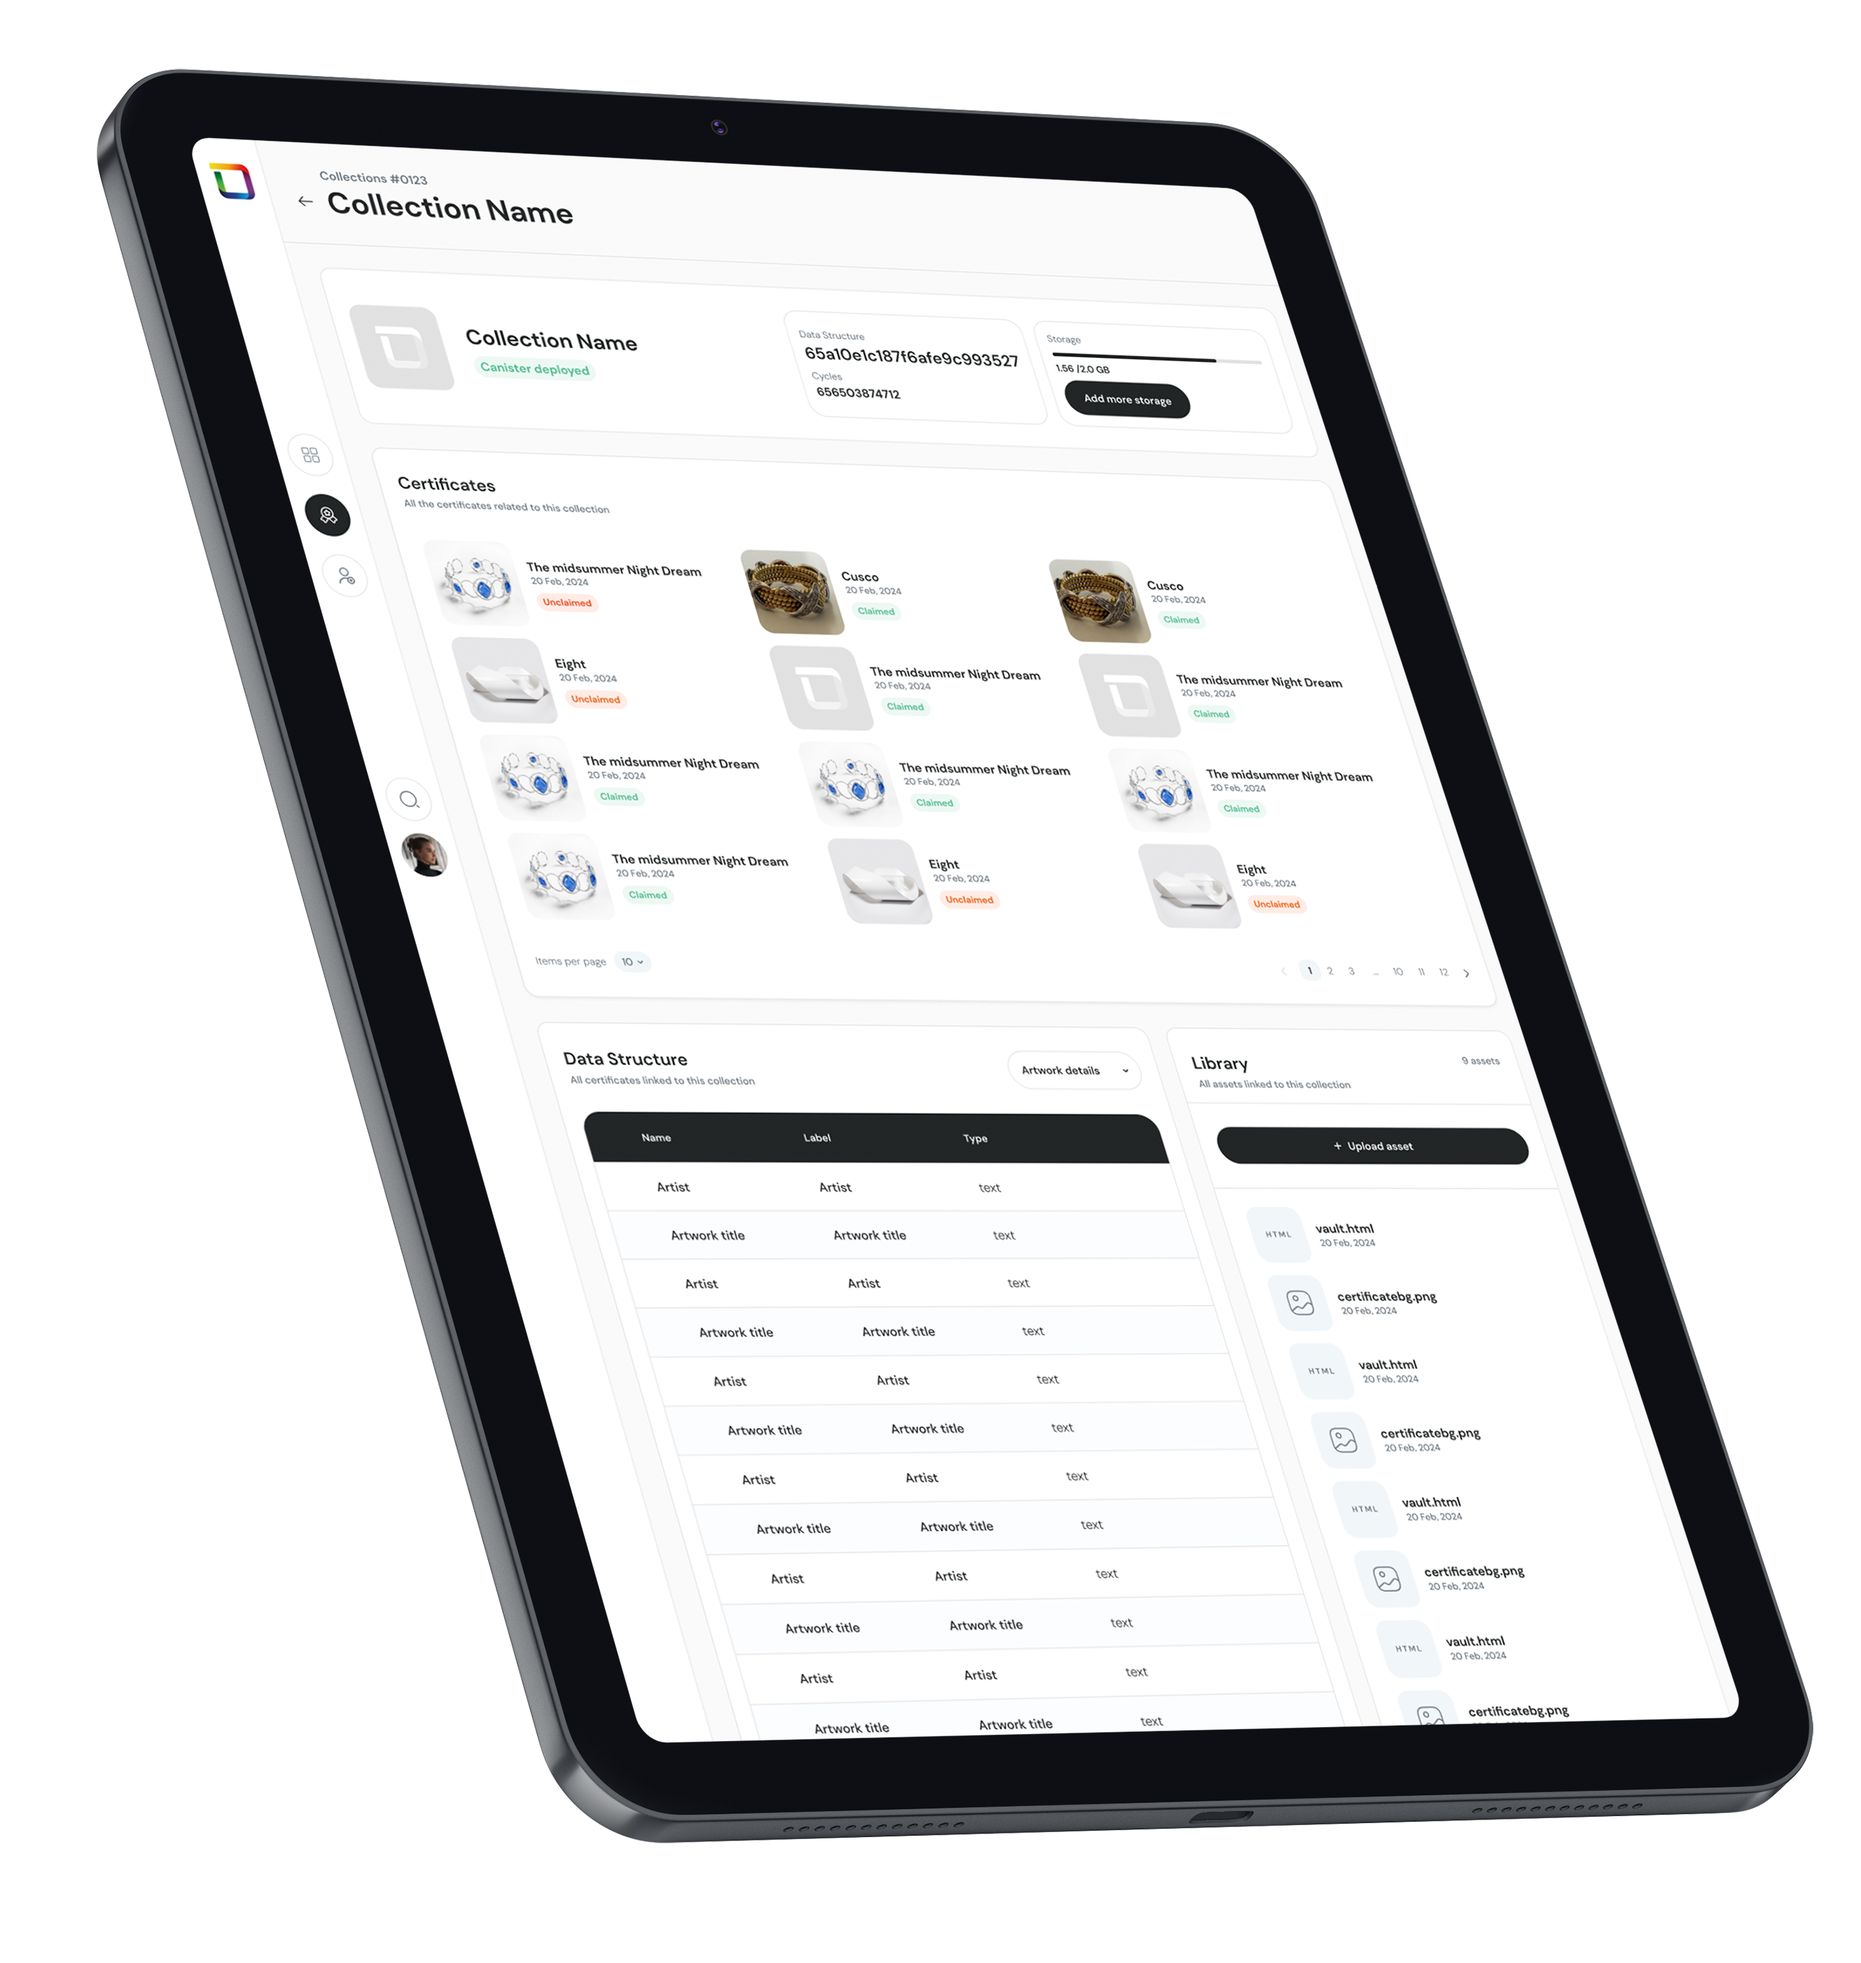
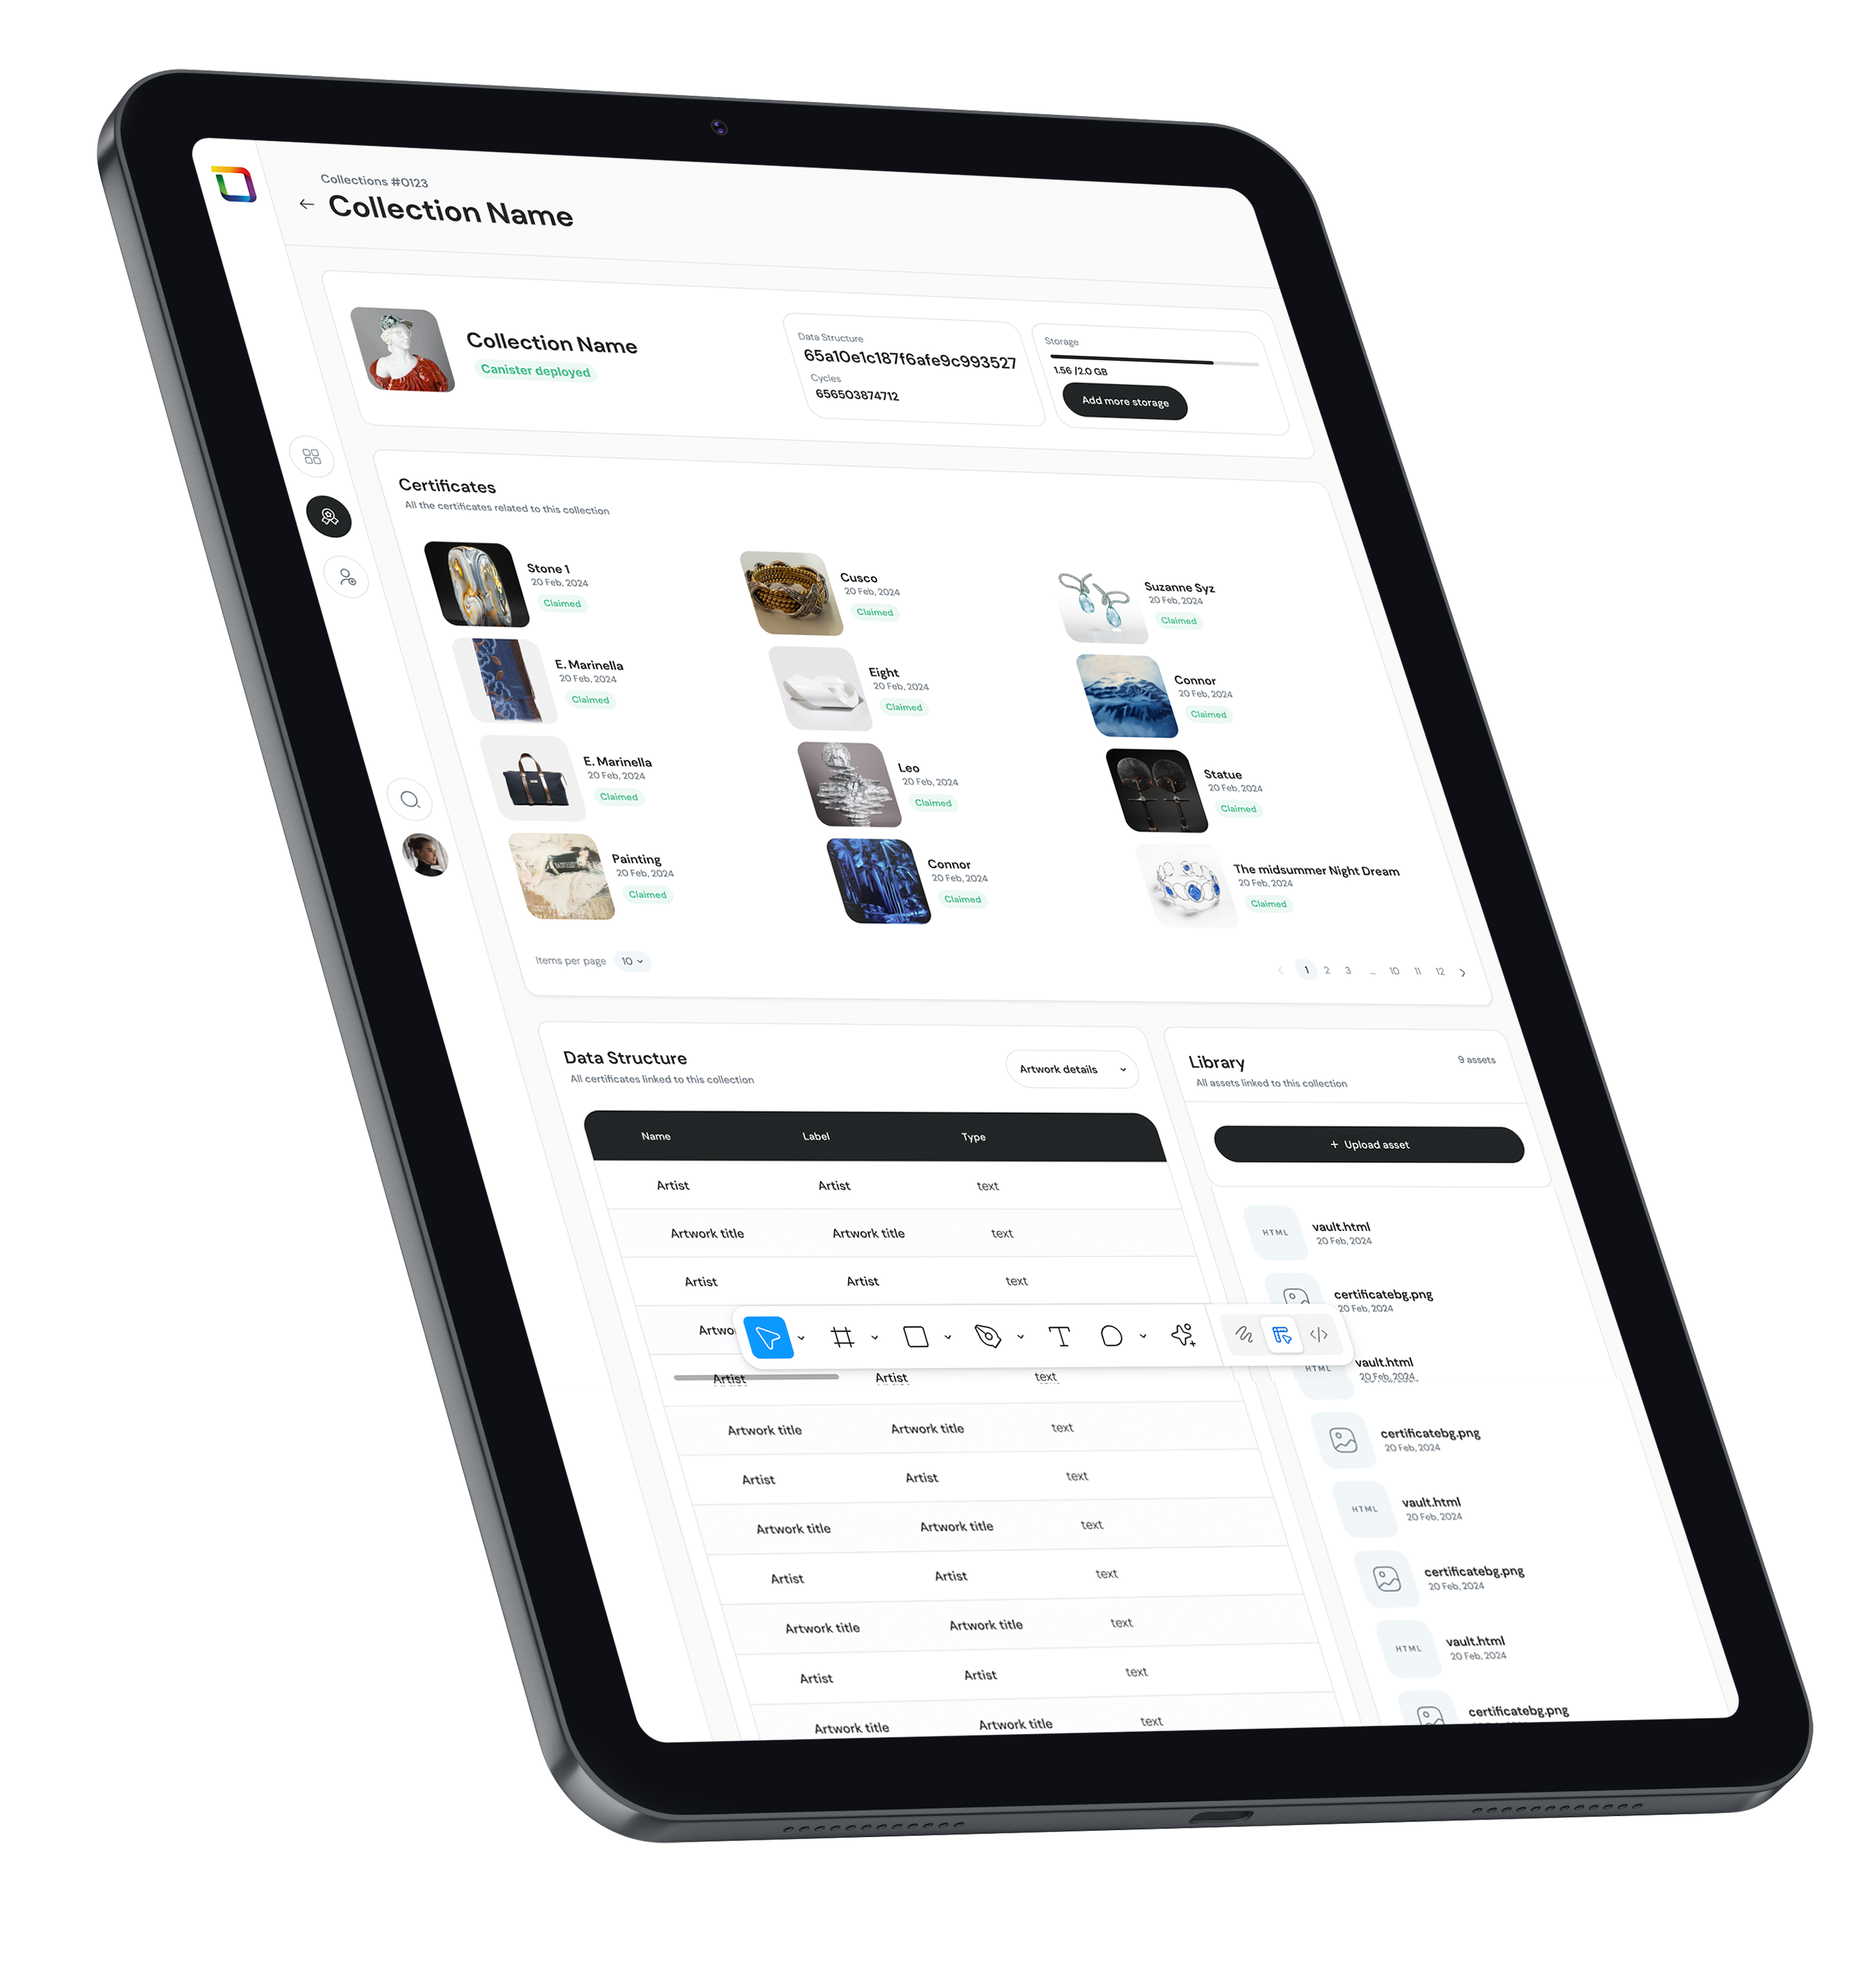
chore(landing): minor changes

diff --git a/frontend/origyn_landing_page/src/components/CertifyYourAssets/CertifyYourAssets.module.css b/frontend/origyn_landing_page/src/components/CertifyYourAssets/CertifyYourAssets.module.css
@@ -1,5 +1,5 @@
 .container {
-  background-color: #05193666;
+  background-color: #051936;
   padding-top: 96px;
   padding-bottom: 96px;
   display: flex;
@@ -21,22 +21,27 @@
   transform: translateX(-44%);
   width: 100%;
   height: 100%;
+
   background-image: radial-gradient(
-    circle at 31%,
-    #75ff8040 0%,
-    transparent 28%
+    circle at 34%,
+    #75ff8040 -7%,
+    transparent 26%
   );
   z-index: 0;
   pointer-events: none;
 }
 
-.title {
+.titleDesktop {
   font-family: "General Sans";
   font-weight: 300;
   font-size: 96px;
   line-height: 88px;
   letter-spacing: 0;
   text-align: center;
+}
+
+.titleMobile {
+  display: none;
 }
 
 .italic {
@@ -104,7 +109,7 @@
 }
 
 @media (max-width: 990px) {
-  .title {
+  .titleDesktop {
     font-size: 68px;
   }
 }
@@ -118,9 +123,18 @@
     background-repeat: no-repeat;
   }
 
-  .title {
+  .titleMobile {
+    display: block;
     font-size: 44px;
     line-height: 60px;
+    font-family: "General Sans";
+    font-weight: 300;
+    letter-spacing: 0;
+    text-align: center;
+  }
+
+  .titleDesktop {
+    display: none;
   }
 
   .subtitle {

diff --git a/frontend/origyn_landing_page/src/components/UseCases/UseCases.module.css b/frontend/origyn_landing_page/src/components/UseCases/UseCases.module.css
@@ -49,7 +49,7 @@
 }
 
 .cardWrapper {
-  height: 478px;
+  height: 650px;
   position: relative;
   overflow: visible;
 }
@@ -78,11 +78,6 @@
 }
 
 .cardTitle {
-  position: absolute;
-  bottom: 0;
-  left: 0;
-  right: 0;
-  padding: 16px;
   /* background: linear-gradient(to top, rgba(0, 0, 0, 0.7), transparent); */
   font-family: "General Sans";
   font-weight: 400;
@@ -90,7 +85,7 @@
   line-height: 20px;
   letter-spacing: 2px;
   text-transform: uppercase;
-  color: #ffffff;
+  color: black;
 }
 
 .card:hover {
@@ -176,5 +171,24 @@
     gap: 8px;
     margin-top: 24px;
     justify-content: flex-start;
+  }
+
+  .cardWrapper {
+    height: 500px;
+  }
+  .card {
+    height: 100% !important;
+  }
+
+  .cardImage {
+    height: 500px !important;
+  }
+  .cardTitle {
+    position: absolute;
+    color: white;
+    bottom: 0;
+    left: 0;
+    right: 0;
+    padding: 16px;
   }
 }

diff --git a/frontend/origyn_landing_page/src/components/OurPartners/OurPartners.module.css b/frontend/origyn_landing_page/src/components/OurPartners/OurPartners.module.css
@@ -1,5 +1,4 @@
 .container {
-  background-image: url("/uc-3.png");
   height: calc(100vh - 98px);
   background-size: cover;
   background-position: center;
@@ -10,6 +9,8 @@
   padding-right: 104px;
   justify-content: space-between;
   position: relative;
+  background-color: rgba(0, 0, 0, 0.4);
+  background-blend-mode: darken;
 }
 
 .left {
@@ -42,7 +43,7 @@
   font-weight: 300;
   font-size: 24px;
   line-height: 100%;
-  letter-spacing: 5%;
+  letter-spacing: 1.3px;
   text-transform: uppercase;
 }
 
@@ -50,8 +51,8 @@
   font-family: "General Sans";
   font-weight: 400;
   font-size: 18px;
-  line-height: 100%;
-  letter-spacing: 0%;
+  line-height: 24px;
+  letter-spacing: 1.3px;
 }
 
 .signature {

diff --git a/frontend/origyn_landing_page/src/components/OurPartners/testimonialsData.js b/frontend/origyn_landing_page/src/components/OurPartners/testimonialsData.js
@@ -15,7 +15,7 @@ export const testimonials = [
     title: "Artist",
     description:
       "\"Inscribing on chain is something beautiful. It's exactly what we are doing with ORIGYN when we do the certification of the physical art piece. We are inscribing on chain something that exist for real… At the end of the day you need a technology that's going to push the boundaries a little bit further, a technology that can certify a physical art piece exactly with the details and with all the information needed to make it part of the blockchain, that's what you do with ORIGYN.\"",
-    backgroundImage: "/t-leo-c.jpg",
+    backgroundImage: "/t-leo-c.png",
   },
   {
     id: 3,

diff --git a/frontend/origyn_landing_page/src/components/UseCases/UseCases.jsx b/frontend/origyn_landing_page/src/components/UseCases/UseCases.jsx
@@ -7,22 +7,23 @@ const useCases = [
     title: "Art",
     image: "/uc-1.png",
     position: "top",
-    height: "100%",
-  },
-  {
-    title: "Diamonds",
-    image: "/uc-2.png",
-    position: "bottom",
+    height: "550px",
   },
   {
     title: "Gold",
-    image: "/uc-3.jpeg",
-    height: "100%",
-    position: "top",
+    image: "/uc-2.jpg",
+    position: "bottom",
   },
   {
+    title: "Diamonds",
+    image: "/uc-3.jpg",
+    position: "top",
+    height: "610px",
+  },
+
+  {
     title: "Made In",
-    image: "/uc-5.png",
+    image: "/uc-4.jpg",
     position: "top",
   },
 ];

diff --git a/frontend/origyn_landing_page/src/components/OurRoadmap/OurRoadmap.module.css b/frontend/origyn_landing_page/src/components/OurRoadmap/OurRoadmap.module.css
@@ -12,7 +12,7 @@
 }
 
 .title {
-  font-family: "Montserrat";
+  font-family: "General Sans";
   font-weight: 200;
   font-size: 96px;
   line-height: 88px;
@@ -22,7 +22,7 @@
 }
 
 .title span {
-  font-family: "Montserrat Italic";
+  font-family: "General Sans Italic";
   font-weight: 200;
   font-style: italic;
   font-size: 90px;
@@ -40,7 +40,7 @@
   line-height: 32px;
   letter-spacing: 1.3px;
   text-transform: uppercase;
-  max-width: 780px;
+  max-width: 808px;
   text-align: center;
 }
 

diff --git a/frontend/origyn_landing_page/src/components/CertifyYourAssets/CertifyYourAssets.jsx b/frontend/origyn_landing_page/src/components/CertifyYourAssets/CertifyYourAssets.jsx
@@ -6,7 +6,11 @@ import Button from "../Button/Button";
 const CertifyYourAssets = ({ id }) => {
   return (
     <div id={id} className={styles.container}>
-      <div className={styles.title}>
+      <div className={styles.titleDesktop}>
+        Certify <br />
+        <span className={styles.italic}>your assets</span>
+      </div>
+      <div className={styles.titleMobile}>
         Certify your <br />
         <span className={styles.italic}>assets</span>
       </div>

diff --git a/frontend/origyn_landing_page/src/components/IntegratorProgram/IntegratorProgram.module.css b/frontend/origyn_landing_page/src/components/IntegratorProgram/IntegratorProgram.module.css
@@ -28,7 +28,7 @@
   font-size: 4.5rem;
   font-weight: 300;
   margin-bottom: 2rem;
-  font-family: "Montserrat";
+  font-family: "General Sans";
 
   font-weight: 300;
   font-size: 88px;
@@ -38,8 +38,8 @@
   color: #1a1a1a;
 }
 .program {
-  font-family: "Montserrat Italic", sans-serif;
-  font-weight: 200;
+  font-family: "General Sans Italic", sans-serif;
+  font-weight: 300;
   font-size: 88px;
   line-height: 88px;
 }

diff --git a/frontend/origyn_landing_page/src/components/Stats/Stats.module.css b/frontend/origyn_landing_page/src/components/Stats/Stats.module.css
@@ -4,7 +4,7 @@
   margin-right: auto;
   display: flex;
   justify-content: space-around;
-  align-items: center;
+  align-items: start;
   width: 100%;
   height: 146px;
   padding: 25px 0;
@@ -16,10 +16,10 @@
 
 .divider {
   width: 1px;
-  height: 34px;
+  height: 67px;
   background-color: #c0ccd8;
   align-self: center;
-  margin: 0 32px;
+  margin: 0 12px;
 }
 
 .swipeContainer {

diff --git a/frontend/origyn_landing_page/src/components/Calculator/Calculator.module.css b/frontend/origyn_landing_page/src/components/Calculator/Calculator.module.css
@@ -1,7 +1,6 @@
 .wrapper {
   position: relative;
   width: 100%;
-  min-height: 100vh;
   display: flex;
   justify-content: center;
   align-items: center;
@@ -18,6 +17,7 @@
   border-radius: 20px;
   position: relative;
   z-index: 1;
+  box-shadow: 0 0 91px rgba(255, 255, 255, 0.2);
 }
 
 .modeToggle {

diff --git a/frontend/origyn_landing_page/src/components/HowItWorks/HowItWorks.module.css b/frontend/origyn_landing_page/src/components/HowItWorks/HowItWorks.module.css
@@ -32,7 +32,7 @@
 }
 
 .title span {
-  font-family: "Montserrat Italic";
+  font-family: "General Sans Italic";
   font-weight: 200;
   font-style: italic;
   font-size: 96px;
